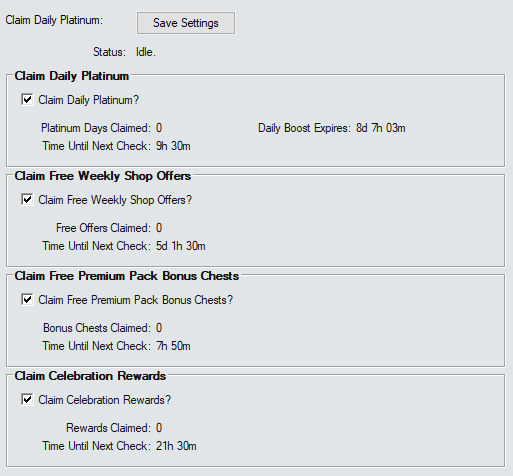
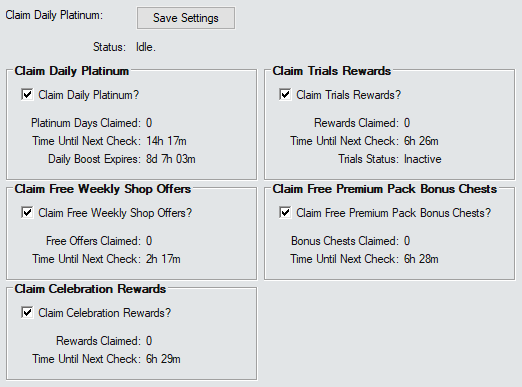
Update ClaimDailyPlatinum - v0.3.3
- Adding support to claim trials rewards.

Changed region(s): [[0.0, 0.0, 0.9981, 0.9922], [0.0, 0.031, 0.2183, 0.062]]

diff --git a/IC_Addons/IC_ClaimDailyPlatinum_Extra/README.md b/IC_Addons/IC_ClaimDailyPlatinum_Extra/README.md
@@ -2,6 +2,7 @@
 
 This is a very simple AddOn that can claim your free daily Platinum automagically so you don't have to.  
 It can also claim:
+- Trials rewards
 - Free weekly shop offers
 - Bonus chests from premium packs on sale that you've already bought
 - Celebration rewards
@@ -18,6 +19,8 @@ The first section of the addon determines whether the script will try to claim t
 
 The timer for it is initialised to check 1 minute after starting the Gem Farm script - and it will check again whenever the server says it will be ready (+30 seconds for safety).
 
+This section contains the status of Daily Boost. If you do not have Daily Boost it will say `Inactive`. If you do - it will tell you how long until it expires.
+
 This setting is on by default.
 
 > [!IMPORTANT]
@@ -25,11 +28,31 @@ This setting is on by default.
 
 ___
 
+## Claim Trials Rewards
+
+The second section of the addon determines whether the script will try to claim the rewards from Trials of Mount Tiamat.
+
+The timer for it is initialised to check 2 minutes after starting the Gem Farm script. After that it gets complicated.
+- If the Trial is not running then it will check every 8 hours.
+- If the Trial is in the lobby it will check every 10 minutes.
+- If the Trial is running it will calculate how long before Tiamat dies based on her current HP and total DPS and check again after half that much time or 8 hours (whichever is shorter).
+
+This is all to try to make sure it will claim the reward at most a couple of minutes after the Trial ends - and that it can cope with DPS changes as players do more damage and complete their daily goals.
+
+This section contains the status of the current Trial.
+
+This setting is on by default.
+
+> [!NOTE]
+> If the status says `Tiamat Dies in:` then that time is *estimated* based on Tiamat's health and the total DPS when the previous check happened. Depending on how long ago that check was - the time could be very inaccurate.
+
+___
+
 ## Claim Free Weekly Shop Offers
 
-The second section determines whether the script will try to claim any free weekly shop offers.
+The third section determines whether the script will try to claim any free weekly shop offers.
 
-The timer for it is initialised to check 2 minutes after starting the Gem Farm script - and it will check again whenever the server says it will be ready (+30 seconds for safety).
+The timer for it is initialised to check 3 minutes after starting the Gem Farm script - and it will check again whenever the server says it will be ready (+30 seconds for safety).
 
 This setting is on by default.
 
@@ -37,9 +60,9 @@ ___
 
 ## Claim Free Premium Pack Bonus Chests
 
-The third option will try to claim the bonus chests available when a premium pack that you've already bought goes on sale.
+The fourth option will try to claim the bonus chests available when a premium pack that you've already bought goes on sale.
 
-The timer for it is initialised to check 3 minutes after starting the Gem Farm Script - and it will check again every 8 hours.
+The timer for it is initialised to check 4 minutes after starting the Gem Farm Script - and it will check again every 8 hours.
 
 This setting is on by default.
 
@@ -47,8 +70,8 @@ ___
 
 ## Claim Celebration Rewards
 
-The fourth option will try to claim rewards available during a Celebration event such as the seasonal celebrations - where you get one chest per day and an extra special one if you claim at least four days.
+The fifth option will try to claim rewards available during a Celebration event such as the seasonal celebrations - where you get one chest per day and an extra special one if you claim at least four days.
 
-The timer for it is initialised to check 4 minutes after starting the Gem Farm Script. If the addon can see there is a celebration running and can pull a timer from it - it will check when the next day will be claimable. Otherwise it checks every 8 hours.
+The timer for it is initialised to check 5 minutes after starting the Gem Farm Script. If the addon can see there is a celebration running and can pull a timer from it - it will check when the next day will be claimable. Otherwise it checks every 8 hours.
 
 This setting is on by default.
